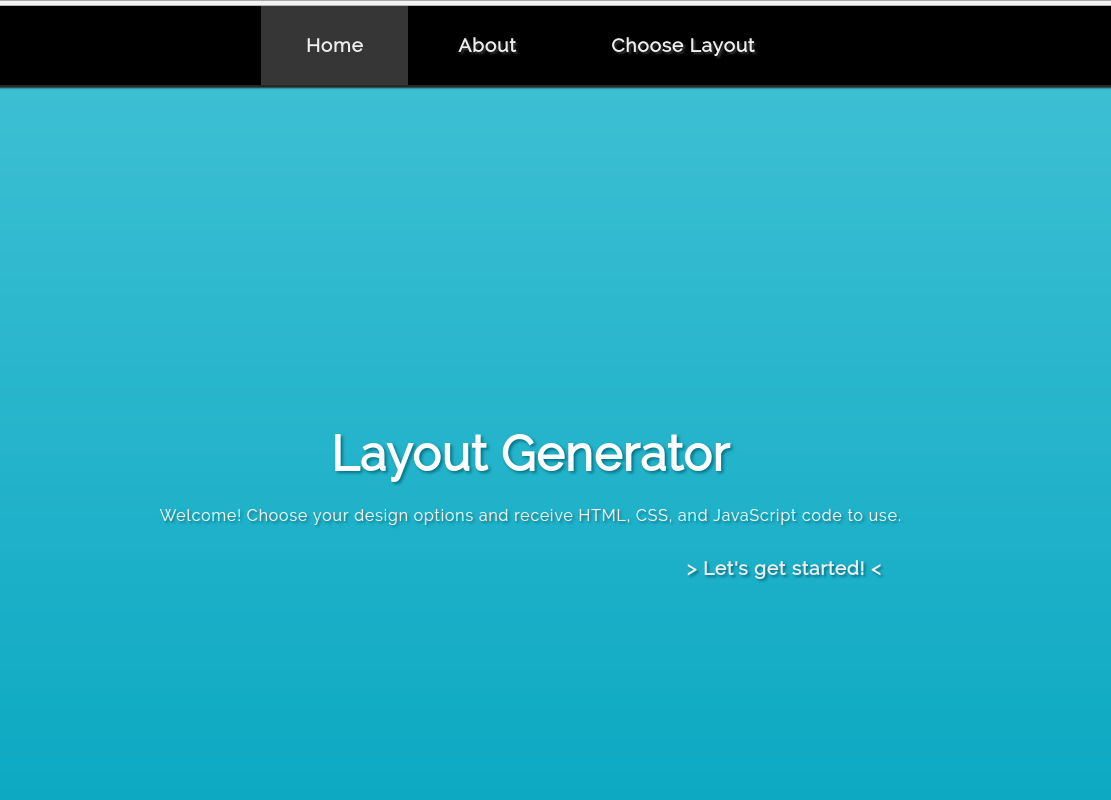
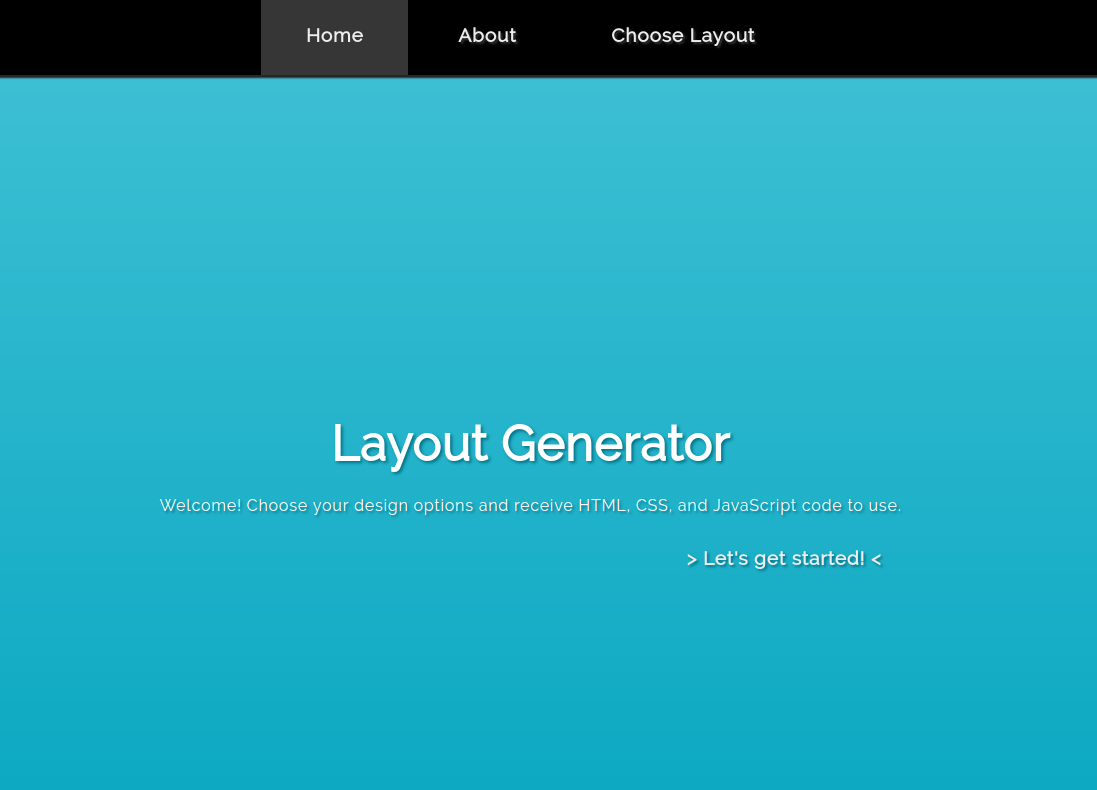
finalized some things

Changed region(s): [[0.0, 0.0, 1.0, 0.1215], [0.124, 0.5165, 0.8058, 0.6684], [0.6199, 0.6987, 0.8058, 0.7291]]

diff --git a/src/style/_vars.scss b/src/style/_vars.scss
@@ -2,7 +2,7 @@
 $primary-blue: rgb(0, 44, 189);
 $primary-blue-transparent: rgba(0, 29, 126, 0.5);
 $primary-green: rgb(0, 180, 126);
-$primary-gray: rgb(50, 50, 50);
+$primary-gray: rgb(45, 45, 60);
 $secondary-gray: rgb(140, 140, 140);
 $primary-black: black;
 $primary-white: rgb(245, 245, 245);

diff --git a/src/style/main.scss b/src/style/main.scss
@@ -3,7 +3,7 @@
 
 
 body {
-  background-color: $primary-black;
+  background-color: $primary-gray;
   font-family: Lato, sans-serif;
   max-width: 1080px;
   margin: 0 auto;
